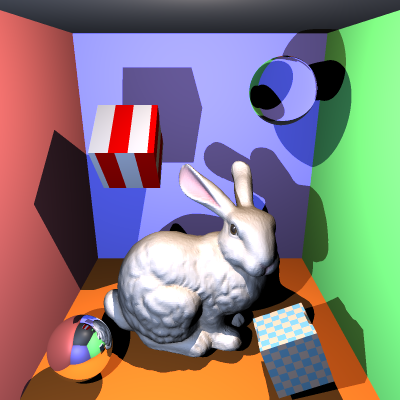
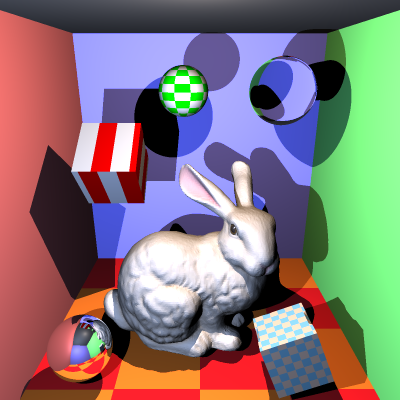
add Procedural Material when plane and sphere

diff --git a/src/scene/primitives/Plane.cs b/src/scene/primitives/Plane.cs
@@ -46,7 +46,25 @@ namespace RayTracer
             {
                 return null;
             }
-            return new RayHit(hitPoint, normal, ray.Direction, Material);
+
+            // Establish a local coordinate system
+            Vector3 tangent = normal.Cross(new Vector3(0, 1, 0));
+            if (tangent.LengthSq() < 1e-6)
+            {
+                tangent = normal.Cross(new Vector3(1, 0, 0));
+            }
+            tangent = tangent.Normalized();
+            Vector3 bitangent = normal.Cross(tangent).Normalized();
+
+            // Project the intersection point onto the plane, and obtain u and v.
+            double u = (hitPoint - center).Dot(tangent);
+            double v = (hitPoint - center).Dot(bitangent);
+
+            double uWrapped = u - Math.Floor(u);
+            double vWrapped = v - Math.Floor(v);
+            TextureCoord texCoord = new TextureCoord((float)uWrapped, (float)vWrapped);
+
+            return new RayHit(hitPoint, normal, ray.Direction, Material, texCoord);
         }
 
         /// <summary>

diff --git a/src/scene/primitives/Sphere.cs b/src/scene/primitives/Sphere.cs
@@ -92,7 +92,16 @@ namespace RayTracer
         {
             Vector3 hitPoint = ray.Origin + t * ray.Direction;
             Vector3 normal = (hitPoint - this.center).Normalized();
-            return new RayHit(hitPoint, normal, ray.Direction, this.Material);
+            // Calculate spherical coordinates into (u, v)
+            double x = normal.X;
+            double y = normal.Y;
+            double z = normal.Z;
+
+            double u = 0.5 + Math.Atan2(z, x) / (2 * Math.PI);
+            double v = 0.5 - Math.Asin(y) / Math.PI;
+
+            TextureCoord texCoord = new TextureCoord((float)u, (float)v);
+            return new RayHit(hitPoint, normal, ray.Direction, this.Material, texCoord);
         }
 
         /// <summary>

diff --git a/README.md b/README.md
@@ -66,7 +66,7 @@ Tip: To tick, place an x between the square brackes [ ], like so: [x]
 
   **Option B1 Colour texture mapping:** I achieved the color texture mapping function by parsing the texture coordinate information in the OBJ file and mapping it to the texture image. Specifically, I expanded the parsing logic of the OBJ model, enabling it to recognize and store texture coordinates in a dedicated texture coordinate list. Meanwhile, when identifying the face informations, the texture coordinates corresponding to each vertex are passed to the Triangle for storage. To support texture queries, I override the GetDiffuseColor method of the TextureMaterial class, and then calculated the corresponding pixel position in the texture image based on the input texture coordinates. When calculating the intersection of light and triangles, the precise texture coordinates of the hit point are calculated through interpolation of the centroid coordinates, and these coordinates are then passed to the shading system. Eventually, a complete texture mapping process is achieved by sampling the texture image to determine the diffuse color of the object's surface.
 
-  **Option B3 Procedural textures:** I extended the ProceduralMaterial class and rewrote its GetDiffuseColor method to support two modes(checkers & stripes). The repetition frequency of the pattern in the UV direction is controlled by the scaleU and scaleV parameters. Subsequently, the corresponding methods are called based on the specified pattern type. For the checkers pattern, two colors are alternately used by calculating the parity of the sum of the integerized U and V coordinates, resulting in an alternating grid pattern. For the stripes pattern, the color alternation is determined only based on the parity of the integerized U coordinate, resulting in a striped effect parallel to the V axis.
+  **Option B3 Procedural textures:** I extended the ProceduralMaterial class and rewrote its GetDiffuseColor method to support two modes(checkers & stripes). The repetition frequency of the pattern in the UV direction is controlled by the scaleU and scaleV parameters. Subsequently, the corresponding methods are called based on the specified pattern type. For the checkers pattern, two colors are alternately used by calculating the parity of the sum of the integerized U and V coordinates, resulting in an alternating grid pattern. For the stripes pattern, the color alternation is determined only based on the parity of the integerized U coordinate, resulting in a striped effect parallel to the V axis. Additionally, I enabled procedural textures on other entities by calculating appropriate UV coordinates at the intersection points(see Reference 2).
 
 ## Final scene render
 
@@ -114,5 +114,6 @@ dotnet run -- -f tests/sample_scene_2.txt -o images/sample_scene_2.png
 
 ## References
 
-1. https://github.com/heretique/raytracey/blob/master/BvhNode.h
+1. Reference for BVHnode construction code: https://github.com/heretique/raytracey/blob/master/BvhNode.h
+2. Sphere mapping formula and theory: https://www.clicktorelease.com/blog/creating-spherical-environment-mapping-shader/
 
